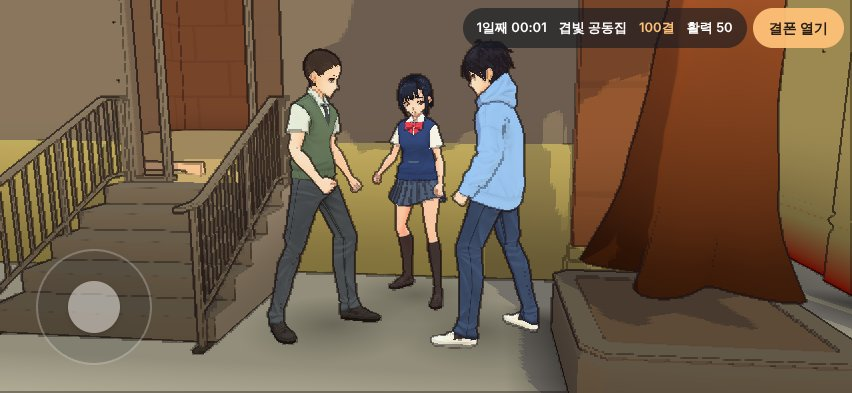
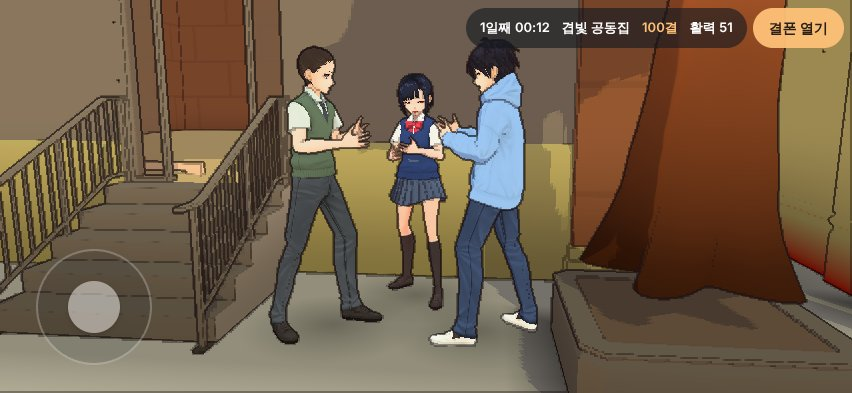
C083 실제 UAL 앉기 클립을 벤치에 맞춤
- main의 people.glb(Sitting_Enter/Idle/Exit·Interact·Idle_Talking_Loop) 병합 후 실제 클립 사용.
- UAL 앉기는 의자로 약 25cm 뒤로 앉으므로 act('sit')가 그만큼 앞에 세우고 시작(입장·이탈이 미끄러지지 않음),
  앉은 엉덩이 높이는 좌석 높이에 맞춤(SD 비율 포함). 클립이 없을 때만 임시 대역.
- 스크린샷 4장을 실제 클립으로 다시 찍음.

diff --git a/src/anime/avatar.ts b/src/anime/avatar.ts
@@ -170,18 +170,32 @@ export async function loadAvatar(camera: T.Camera, sd = 1, outfit: Outfit = outf
   hips.position.y += 0.1; vrm.humanoid.update(); vrm.scene.updateMatrixWorld(true);
   const lift = (y('leftUpperLeg') - hipY) / 0.1; // world metres per normalized hips unit
   hips.position.y = restHips; vrm.humanoid.update();
-  const seats = new Map<number, T.AnimationAction | undefined>(), seated = (seat: number) => {
+  // The UAL clips sit back ~25 cm onto a chair scaled to the legs: act('sit') steps the group forward by that much, and
+  // the seated hips are raised or lowered to this seat's height (standing frames keep theirs).
+  const hipsOf = (clip: T.AnimationClip) => clip.tracks.find(track => track.name.endsWith('.position'))!.values;
+  const sitSource = named('Sitting_Idle_Loop'), [standY, standZ] = hipsOf(base).slice(1, 3);
+  const [sitY, sitZ] = sitSource ? hipsOf(retarget(sitSource, rig, vrm, scale, hipsOffset)).slice(1, 3) : [standY, standZ];
+  const seats = new Map<number, (T.AnimationAction | undefined)[]>(), seated = (seat: number) => {
     if (!seats.has(seat)) {
       const length = hipY - kneeY, joint = seat + 0.09 * bodyScale, down = Math.asin(T.MathUtils.clamp((joint - kneeY) / length, -0.3, 0.5));
-      const bend = Math.PI / 2 - down, ahead = Math.max(0, 0.16 - length * Math.cos(down));
+      const bend = Math.PI / 2 - down, ahead = Math.max(0, 0.16 - length * Math.cos(down)), target = restHips + (joint - hipY) / lift;
       const thigh = (r: T.Quaternion) => r.copy(turn(-bend)), shin = (r: T.Quaternion) => r.copy(turn(bend));
-      seats.set(seat, clip('Sitting_Idle_Loop', () => standIn('Sitting_Idle_Loop', { leftUpperLeg: thigh, rightUpperLeg: thigh,
-        leftLowerLeg: shin, rightLowerLeg: shin, leftFoot: r => r.identity(), rightFoot: r => r.identity(),
-        leftUpperArm: arms(0.5), rightUpperArm: arms(0.5) }, [restHips + (joint - hipY) / lift, ahead / lift])));
+      const fit = (name: string, once = false) => {
+        const source = named(name), made = source && retarget(source, rig, vrm, scale, hipsOffset);
+        if (!made) return;
+        const values = hipsOf(made);
+        for (let i = 0; i < values.length; i += 3) {
+          values[i + 1] += (target - sitY) * T.MathUtils.clamp((standY - values[i + 1]) / (standY - sitY), 0, 1);
+        }
+        return action(made, once);
+      };
+      seats.set(seat, [fit('Sitting_Enter', true), fit('Sitting_Idle_Loop') ?? action(standIn('Sitting_Idle_Loop', {
+        leftUpperLeg: thigh, rightUpperLeg: thigh, leftLowerLeg: shin, rightLowerLeg: shin, leftFoot: r => r.identity(),
+        rightFoot: r => r.identity(), leftUpperArm: arms(0.5), rightUpperArm: arms(0.5) }, [target, ahead / lift])),
+      fit('Sitting_Exit', true)]);
     }
-    return seats.get(seat);
+    return seats.get(seat)!;
   };
-  const enter = clip('Sitting_Enter', undefined, true), exit = clip('Sitting_Exit', undefined, true);
   const buy = clip('Interact', () => standIn('Interact', {
     rightUpperArm: (r, t) => r.premultiply(turn(-1.2 * Math.sin(Math.PI * t) ** 2)) }));
   const talk = clip('Idle_Talking_Loop', () => standIn('Idle_Talking_Loop', { leftUpperArm: arms(0.15),
@@ -189,19 +203,21 @@ export async function loadAvatar(camera: T.Camera, sd = 1, outfit: Outfit = outf
     neck: (r, t) => r.premultiply(turn(0.06 * Math.sin(2 * Math.PI * t))) }));
   type Activity = 'stand' | 'sit' | 'talk' | 'buy';
   const FADE = 0.6; // s, between activities and into a following clip
-  let activity: Activity = 'stand', steps: T.AnimationAction[] = [], mouth = 0;
+  let activity: Activity = 'stand', steps: T.AnimationAction[] = [], leave: T.AnimationAction | undefined, mouth = 0;
   const begin = () => { if (steps[0] && steps[0].weight < 0.01) steps[0].reset(); };
   if (vrm.lookAt) vrm.lookAt.target = camera;
   const group = new T.Group().add(vrm.scene), face = vrm.expressionManager;
   group.name = outfit.name;
   let time = phase, blinkAt = phase + 1.5 + phase * 0.3, smileAt = 3, first = true;
   return { group, focusHeight, activity: () => activity,
-    // seat: seat top above the feet' ground (m). Leaving a seat plays Sitting_Exit first when present.
+    // sit: the group stands on the seat spot; seat is the seat top above the feet' ground (m). Leaving a seat plays
+    // Sitting_Exit first when present and ends standing in front of it.
     act(next: Activity, seat = 0.43) {
       if (next === activity) return;
-      steps = [...activity === 'sit' && exit ? [exit] : [],
-        ...[next === 'sit' && enter, next === 'sit' && seated(seat), next === 'talk' && talk, next === 'buy' && buy]
-          .filter((step): step is T.AnimationAction => !!step)];
+      const [enter, loop, exit] = next === 'sit' ? seated(seat) : [];
+      steps = [leave, enter, loop, next === 'talk' && talk, next === 'buy' && buy].filter((step): step is T.AnimationAction => !!step);
+      leave = exit;
+      if (next === 'sit') group.translateZ(Math.abs(sitZ - standZ) * lift);
       if (first && (steps = steps.slice(-1))[0]) { // placed at load: already there, each at its own point of the loop
         steps[0].weight = 1; steps[0].time = phase % steps[0].getClip().duration;
       }
